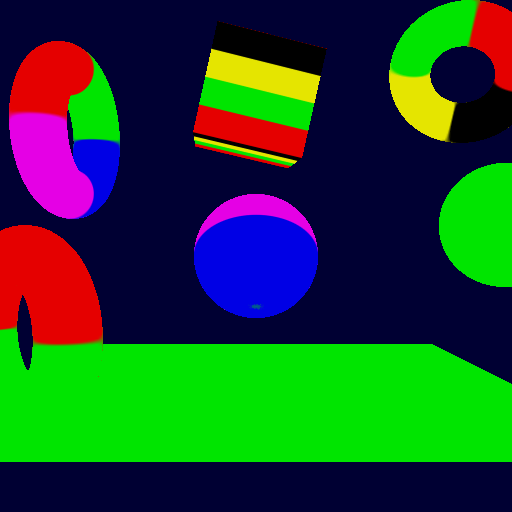
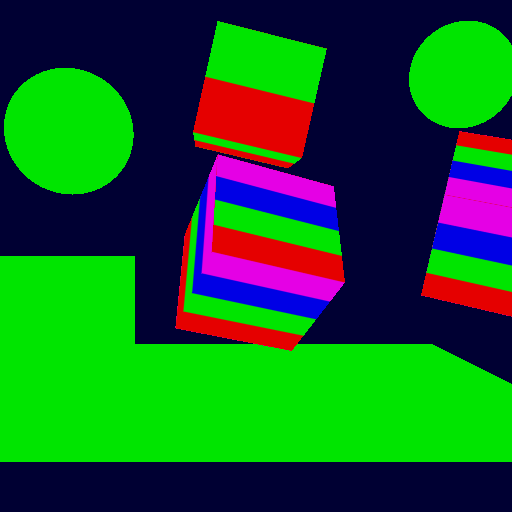
edit

diff --git a/main/tests4.cpp b/main/tests4.cpp
@@ -1039,15 +1039,6 @@ bool test29_many_textures_and_meshes()
   HRMeshRef planeRef = HRMeshFromSimpleMesh(L"my_plane", CreatePlane(2.0f), simplerandom::rand(rgen) % 20);
 
   std::vector<HRMeshRef> meshes = CreateRandomMeshesArray(1000, rgen);
-  
-  // HRMeshRef cubeRef  = HRMeshFromSimpleMesh(L"my_cube",  CreateCube(0.5f), rand() % 20);
-  // 
-  // HRMeshRef sphRef   = HRMeshFromSimpleMesh(L"my_sphere", CreateSphere(0.5f, 32), rand() % 20);
-  // HRMeshRef torRef   = HRMeshFromSimpleMesh(L"my_torus",  CreateTorus(0.2f, 0.5f, 32, 32), rand() % 20);
-  // 
-  // HRMeshRef cubeRef2 = HRMeshFromSimpleMesh(L"my_cube2",   CreateCube(0.5f), 8);
-  // HRMeshRef sphRef2  = HRMeshFromSimpleMesh(L"my_sphere2", CreateSphere(0.5f, 32), 15);
-  // HRMeshRef torRef2  = HRMeshFromSimpleMesh(L"my_torus2",  CreateTorus(0.2f, 0.5f, 32, 32), rand() % 20);
 
   // camera
   //
@@ -1337,21 +1328,21 @@ bool test30_many_textures_and_meshes()
   mat4x4_mul(mRes, mTranslate, mRot1);
   mat4x4_transpose(matrixT7, mRes); // this fucking math library swap rows and columns
 
-  //////////////////////////////////////////////////////////////////////////////////////////////////////////////////////////////////////
-
+  /////////////////////////////////////////////////////////////////////////////////////////////////////////////////////////////////////
+  
   // draw scene
   //
   hrSceneOpen(scnRef, HR_WRITE_DISCARD);
   {
     hrMeshInstance(scnRef, planeRef, &matrixT2[0][0]);
 
-    hrMeshInstance(scnRef, meshes[rand() % (meshes.size() / 2)], &matrixT[0][0]);
-    hrMeshInstance(scnRef, meshes[rand() % (meshes.size() / 2)], &matrixT3[0][0]);
-    hrMeshInstance(scnRef, meshes[rand() % (meshes.size() / 2)], &matrixT4[0][0]);
+    hrMeshInstance(scnRef, meshes[simplerandom::rand(rgen) % (meshes.size() / 2)], &matrixT[0][0]);
+    hrMeshInstance(scnRef, meshes[simplerandom::rand(rgen) % (meshes.size() / 2)], &matrixT3[0][0]);
+    hrMeshInstance(scnRef, meshes[simplerandom::rand(rgen) % (meshes.size() / 2)], &matrixT4[0][0]);
 
-    hrMeshInstance(scnRef, meshes[rand() % (meshes.size() / 2)], &matrixT5[0][0]);
-    hrMeshInstance(scnRef, meshes[rand() % (meshes.size() / 2)], &matrixT6[0][0]);
-    hrMeshInstance(scnRef, meshes[rand() % (meshes.size() / 2)], &matrixT7[0][0]);
+    hrMeshInstance(scnRef, meshes[simplerandom::rand(rgen) % (meshes.size() / 2)], &matrixT5[0][0]);
+    hrMeshInstance(scnRef, meshes[simplerandom::rand(rgen) % (meshes.size() / 2)], &matrixT6[0][0]);
+    hrMeshInstance(scnRef, meshes[simplerandom::rand(rgen) % (meshes.size() / 2)], &matrixT7[0][0]);
   }
   hrSceneClose(scnRef);
 

diff --git a/main/main.cpp b/main/main.cpp
@@ -91,7 +91,7 @@ int main(int argc, const char** argv)
   
   try
   {
-    // run_all_api_tests(81);
+    run_all_api_tests();
 	  // run_all_geo_tests();
     // run_all_lgt_tests();
     // run_all_mtl_tests();
@@ -99,7 +99,7 @@ int main(int argc, const char** argv)
   
   
     //test39_mesh_from_vsgf();
-    test42_load_library_basic();
+    //test42_load_library_basic();
     
     //test38_licence_plate();
     //std::cout << test39_mesh_from_vsgf() << std::endl;

diff --git a/hydra_api/VirtualBuffer.cpp b/hydra_api/VirtualBuffer.cpp
@@ -16,7 +16,7 @@
 #include <math.h>
 
 static constexpr bool gDebugMode     = true;
-static constexpr bool gCopyCollector = false;
+static constexpr bool gCopyCollector = true;
 
 ///////////////////////////////////////////////////////////////////////////////////////////////////////////////////////////////////////
 ///////////////////////////////////////////////////////////////////////////////////////////////////////////////////////////////////////

diff --git a/hydra_api/HydraAPI.h b/hydra_api/HydraAPI.h
@@ -1032,7 +1032,7 @@ HAPI void hrFlush(HRSceneInstRef a_pScn = HRSceneInstRef(),
 
 typedef int32_t HR_IDType;
 
-constexpr int64_t VIRTUAL_BUFFER_SIZE = int64_t(2048)*int64_t(1024 * 1024);
+constexpr int64_t VIRTUAL_BUFFER_SIZE = int64_t(4096)*int64_t(1024 * 1024);
 
 
 
